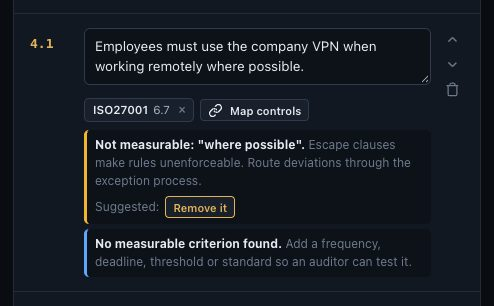
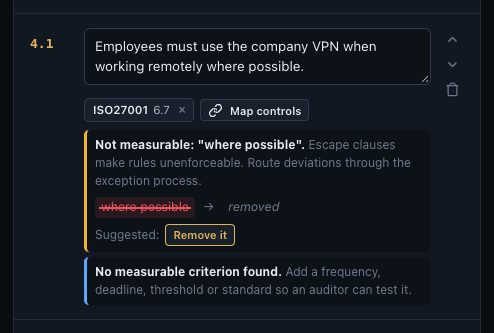
Animate wording suggestions
Each fixable finding now shows the flagged words struck through and the
replacement sliding in, and the main suggestion pulses. Hovering another
suggestion previews it; applying one plays the change, folds the finding
away and flashes the statement. Respects prefers-reduced-motion.

diff --git a/public/js/views/policies.js b/public/js/views/policies.js
@@ -323,6 +323,7 @@ export async function policyEditorView(el, id) {
   // ---------- Lint (runs on every keystroke, no server round-trip) ----------
   let lastReview = null;
   const openCats = new Set();
+  const seenFindings = new Set();
   function refreshLint() {
     const rv = reviewPolicy({ ...p, approved_at: p.approved_at }, { controlsById: controlsIndex(), today: todayStr(), peers: p.peers || [] });
     lastReview = rv;
@@ -344,8 +345,15 @@ export async function policyEditorView(el, id) {
       if (!box) return;
       const f = s.text ? analyzeStatement(s.text) : [];
       if (s.text && !(s.controls || []).length) f.push({ severity: 'warning', message: 'Not mapped to any framework control.', tip: 'Use “Map controls” to link it to ISO 27001, NIST, SOC 2 …' });
-      mount(box, html`${f.map((x, k) => html`<div class="finding ${x.severity}"><div><b>${x.message}</b> <span class="tip">${x.tip || ''}</span>
-        ${x.fixes?.length && editable() ? html`<div class="fix-row"><span class="muted">Suggested:</span>${x.fixes.map((fx, j) => html`<button class="btn xs ${j ? '' : 'fix-main'}" data-fix="${s.id}:${k}:${j}" title="${fixTitle(fx)}">${fixLabel(fx)}</button>`)}</div>` : ''}</div></div>`)}`);
+      // Only findings that just appeared animate, so typing doesn't replay them on every keystroke.
+      const keys = f.map((x) => `${s.id}|${x.message}`);
+      mount(box, html`${f.map((x, k) => {
+        const canFix = x.fixes?.length && editable();
+        const fresh = canFix && !seenFindings.has(keys[k]);
+        return html`<div class="finding ${x.severity} ${canFix ? 'has-fix' : ''} ${fresh ? 'fresh' : ''}"><div><b>${x.message}</b> <span class="tip">${x.tip || ''}</span>
+        ${canFix ? html`${fixPreview(x.fixes[0])}<div class="fix-row"><span class="muted">Suggested:</span>${x.fixes.map((fx, j) => html`<button class="btn xs ${j ? '' : 'fix-main'}" data-fix="${s.id}:${k}:${j}" title="${fixTitle(fx)}">${fixLabel(fx)}</button>`)}</div>` : ''}</div></div>`;
+      })}`);
+      keys.forEach((key) => seenFindings.add(key));
       box._findings = f;
     });
     const words = (p.purpose || '').trim().split(/\s+/).filter(Boolean).length;
@@ -452,8 +460,31 @@ export async function policyEditorView(el, id) {
   on(el, 'click', '[data-fix]', (e, b) => {
     const [sid, k, j] = b.dataset.fix.split(':');
     const box = el.querySelector(`[data-findings="${sid}"]`);
-    applyStatementFix(sid, box._findings[Number(k)].fixes[Number(j) || 0]);
+    const card = b.closest('.finding');
+    const fx = box._findings[Number(k)].fixes[Number(j) || 0];
+    if (!card || matchMedia('(prefers-reduced-motion: reduce)').matches) return applyStatementFix(sid, fx);
+    // Play the change first (strike, new words in, card folds away), then rewrite the text.
+    showPreview(card, fx);
+    card.classList.add('applying');
+    setTimeout(() => applyStatementFix(sid, fx), 650);
   });
+  // Hovering or focusing a suggestion previews it in the strike-through line.
+  const previewFrom = (e) => {
+    const b = e.target.closest?.('[data-fix]');
+    const card = b?.closest('.finding');
+    if (!card || card.classList.contains('applying')) return;
+    const [sid, k, j] = b.dataset.fix.split(':');
+    const fx = el.querySelector(`[data-findings="${sid}"]`)._findings[Number(k)].fixes[Number(j) || 0];
+    if (card.dataset.preview !== String(j)) { card.dataset.preview = String(j); showPreview(card, fx); }
+  };
+  el.addEventListener('mouseover', previewFrom);
+  el.addEventListener('focusin', previewFrom);
+  function showPreview(card, fx) {
+    const prev = card.querySelector('.fx-preview');
+    if (!prev) return;
+    prev.replaceWith(Object.assign(document.createElement('div'), { innerHTML: String(fixPreview(fx)) }).firstElementChild);
+    card.classList.remove('fresh'); void card.offsetWidth; card.classList.add('fresh');
+  }
   on(el, 'click', '[data-lfix]', (e, b) => {
     const [k, j] = b.dataset.lfix.split(':').map(Number);
     const issue = lastReview?.lint.issues[k];
@@ -466,7 +497,8 @@ export async function policyEditorView(el, id) {
     const ta = el.querySelector(`[data-stmt="${sid}"]`);
     if (ta) ta.value = s.text;
     refreshLint();
-    toast(fx.to ? `Replaced with “${fx.to}”.` : 'Removed.');
+    if (ta) { ta.classList.remove('fx-done'); void ta.offsetWidth; ta.classList.add('fx-done'); setTimeout(() => ta.classList.remove('fx-done'), 1200); }
+    toast(fx.to ? `Replaced “${fx.match}” with “${fx.to}”.` : `Removed “${fx.match}”.`);
   }
   on(el, 'click', '#add-role', () => { p.roles.push({ role: '', responsibility: '' }); restructure(); });
   on(el, 'click', '[data-del-role]', (e, b) => { p.roles.splice(Number(b.dataset.delRole), 1); restructure(); });
@@ -576,6 +608,8 @@ function scoreBars(rv) {
 
 // Button text for a one-click wording fix: "Use “must”" or "Remove it".
 const fixLabel = (fx) => (fx.to ? (fx.label?.startsWith('“') ? `Use ${fx.label}` : fx.label) : fx.label || 'Remove it');
+// "where feasible" struck through → replacement, drawn by CSS when the finding is fresh.
+const fixPreview = (fx) => html`<div class="fx-preview" aria-hidden="true"><span class="fx-from">${fx.match || ''}</span><span class="fx-arrow">→</span>${fx.to ? html`<span class="fx-to">${fx.to}</span>` : html`<span class="fx-to is-remove">removed</span>`}</div>`;
 const fixTitle = (fx) => (fx.to ? `Replace the flagged words with “${fx.to}”` : 'Delete the flagged words from the statement');
 
 export function reviewCard(rv, { editable = false, openCats = new Set() } = {}) {

diff --git a/public/js/docs-content.js b/public/js/docs-content.js
@@ -109,7 +109,7 @@ export const DOCS = [
         { t: '2 · Write the Purpose', d: 'One paragraph explaining <b>why</b> the policy exists, for example: "This policy establishes … in order to protect …". The counter under the box shows words and paragraphs.', img: img('13-purpose') },
         { t: '3 · Define the Scope', d: 'Say <b>who</b> it applies to (employees, contractors, third parties) and <b>what</b> (systems, data, devices, facilities). The linter warns if either is missing.', img: img('13b-scope') },
         { t: '4 · Write the Policy Statements', d: 'One rule per statement, numbered 4.1, 4.2… Use the pattern <b>[Who] must [do what] [by when / how often]</b>. Under each statement, the findings explain any problem. Add statements with <b>Add statement</b>, and reorder or delete them with the arrows and bin icons.', img: img('14-statements') },
-        { t: 'Fix weak wording in one click', d: 'Whenever a statement uses a word that does not belong in a policy, the finding under it shows <b>Suggested</b> replacements. Click one to rewrite the statement in place. For example, "should" or "may" offers <b>Use "must"</b>, "regularly" offers <b>quarterly</b>, <b>monthly</b> or <b>every 90 days</b>, "promptly" offers <b>within 24 hours</b>, and escape clauses like "where possible" or "etc." offer <b>Remove it</b>. Suggestions follow the context: "appropriate encryption" offers <b>AES-256</b>. The same buttons appear in the <b>Policy linter</b> panel. Always check that the suggested value fits your organization.', img: img('16-fix-applied') },
+        { t: 'Fix weak wording in one click', d: 'Whenever a statement uses a word that does not belong in a policy, the finding under it shows <b>Suggested</b> replacements. Each finding animates the change: the flagged words are struck through in red, the replacement slides in green, and the main suggestion pulses. Hover another suggestion to preview it. Click one to rewrite the statement in place. For example, "should" or "may" offers <b>Use "must"</b>, "regularly" offers <b>quarterly</b>, <b>monthly</b> or <b>every 90 days</b>, "promptly" offers <b>within 24 hours</b>, and escape clauses like "where possible" or "etc." offer <b>Remove it</b>. Suggestions follow the context: "appropriate encryption" offers <b>AES-256</b>. The same buttons appear in the <b>Policy linter</b> panel. Always check that the suggested value fits your organization.', img: img('16-fix-applied') },
         { t: 'Map each statement to controls', d: 'Click <b>Map controls</b> under a statement. MandateGRC reads the statement and suggests matching controls from ISO 27001, NIST CSF, NIST 800-53, CIS, SOC 2, PCI DSS, HIPAA and GDPR, plus equivalent controls for anything already mapped (the crosswalk). Tick the ones that apply and click <b>Apply mappings</b>.', img: img('17-map-controls') },
         { t: '5 · Assign Roles & Responsibilities', d: 'Every policy needs an Owner, a Custodian (who operates the controls), Users and Management. Click <b>Add missing standard roles</b> to insert any that are missing, then edit each responsibility so it is specific to this policy.', img: img('18-roles') },
         { t: '6 · Write Compliance & Enforcement', d: 'State how compliance is verified, what happens on violation, and how exceptions are requested. On an empty section, <b>Insert standard enforcement clause</b> gives you a professional starting point.', img: img('19-enforcement') },

diff --git a/public/css/app.css b/public/css/app.css
@@ -602,3 +602,33 @@ table.t { width: 100%; border-collapse: collapse; }
 /* One-click wording suggestions */
 .fix-row { display: flex; flex-wrap: wrap; align-items: center; gap: 6px; margin-top: 6px; }
 .fix-row .btn.fix-main { border-color: var(--gold); color: var(--gold); }
+
+/* Animated wording suggestions: the flagged words get struck through, the
+   replacement slides in, and the main suggestion pulses until it is used. */
+.fx-preview { display: flex; flex-wrap: wrap; align-items: center; gap: 8px; margin-top: 7px; font-size: 12.5px; }
+.fx-from { position: relative; color: var(--danger); background: color-mix(in srgb, var(--danger) 12%, transparent); padding: 1px 6px; border-radius: 4px; }
+.fx-from::after { content: ""; position: absolute; left: 4px; right: 4px; top: 50%; height: 1.5px; background: var(--danger); transform-origin: left; }
+.fx-arrow { color: var(--muted); }
+.fx-to { color: var(--ok); background: color-mix(in srgb, var(--ok) 12%, transparent); padding: 1px 6px; border-radius: 4px; font-weight: 600; }
+.fx-to.is-remove { color: var(--muted); background: none; font-weight: 400; font-style: italic; }
+.finding.fresh { animation: fx-card-in .35s ease-out both; }
+.finding.fresh .fx-from::after { animation: fx-strike .45s .35s ease-in-out both; }
+.finding.fresh .fx-arrow { animation: fx-fade .3s .8s ease-out both; }
+.finding.fresh .fx-to { animation: fx-slide .4s .95s cubic-bezier(.2, .8, .3, 1.3) both; }
+.finding.has-fix .fix-main { animation: fx-pulse 1.8s 1.4s ease-in-out 4; }
+.finding.has-fix:hover .fix-main, .finding.has-fix .fix-main:focus-visible { animation: none; }
+.finding.applying { animation: fx-out .3s .35s ease-in forwards; pointer-events: none; }
+.finding.applying .fx-from::after { animation: fx-strike .2s ease-in-out both; }
+.finding.applying .fx-to { animation: fx-slide .25s .1s ease-out both; }
+textarea.fx-done { animation: fx-done 1.2s ease-out; }
+@keyframes fx-card-in { from { opacity: 0; transform: translateY(-4px); } }
+@keyframes fx-strike { from { transform: scaleX(0); } to { transform: scaleX(1); } }
+@keyframes fx-fade { from { opacity: 0; } }
+@keyframes fx-slide { from { opacity: 0; transform: translateX(-10px) scale(.9); } }
+@keyframes fx-pulse { 0%, 100% { box-shadow: 0 0 0 0 color-mix(in srgb, var(--gold) 55%, transparent); } 50% { box-shadow: 0 0 0 6px transparent; } }
+@keyframes fx-out { to { opacity: 0; transform: translateX(14px); } }
+@keyframes fx-done { 0% { box-shadow: 0 0 0 3px color-mix(in srgb, var(--ok) 60%, transparent); border-color: var(--ok); } 100% { box-shadow: 0 0 0 3px transparent; } }
+@media (prefers-reduced-motion: reduce) {
+  .finding.fresh, .finding.fresh *, .finding.has-fix .fix-main, textarea.fx-done { animation: none !important; }
+  .fx-from::after { transform: scaleX(1); }
+}

diff --git a/public/js/lint.js b/public/js/lint.js
@@ -70,7 +70,8 @@ const PROHIBITION = /\b(?:must not|shall not|must never|shall never|prohibited)\
 function fixesFor(rule, t) {
   const m = (t.match(rule.re) || [''])[0];
   const list = typeof rule.fixes === 'function' ? rule.fixes(m, t) : rule.fixes || [];
-  return list.map((f) => ({ from: rule.re.source, to: f.to, label: f.label || (f.to ? `“${f.to}”` : f.label) }));
+  const match = m.replace(/^[,\s]+|[,\s]+$/g, '');
+  return list.map((f) => ({ from: rule.re.source, to: f.to, label: f.label || (f.to ? `“${f.to}”` : f.label), match }));
 }
 
 export function analyzeStatement(text = '') {
@@ -84,7 +85,7 @@ export function analyzeStatement(text = '') {
     // If a non-mandatory phrase ("should", "will try to") is flagged below, its fix covers this too.
     const weak = NON_MANDATORY.some((w) => w.re.test(t)) ? null : t.match(WEAK_MANDATE.re);
     findings.push({ severity: 'error', message: 'No "must" or "shall". Every policy statement has to be mandatory.', tip: weak ? `Replace "${weak[0]}" with "must".` : 'Rewrite as "[Who] must [do what] [by when / how often]."',
-      fixes: weak ? [{ from: WEAK_MANDATE.re.source, to: 'must', label: '“must”', once: true }] : [] });
+      fixes: weak ? [{ from: WEAK_MANDATE.re.source, to: 'must', label: '“must”', once: true, match: weak[0] }] : [] });
   }
   for (const w of NON_MANDATORY) {
     if (!w.re.test(t)) continue;
